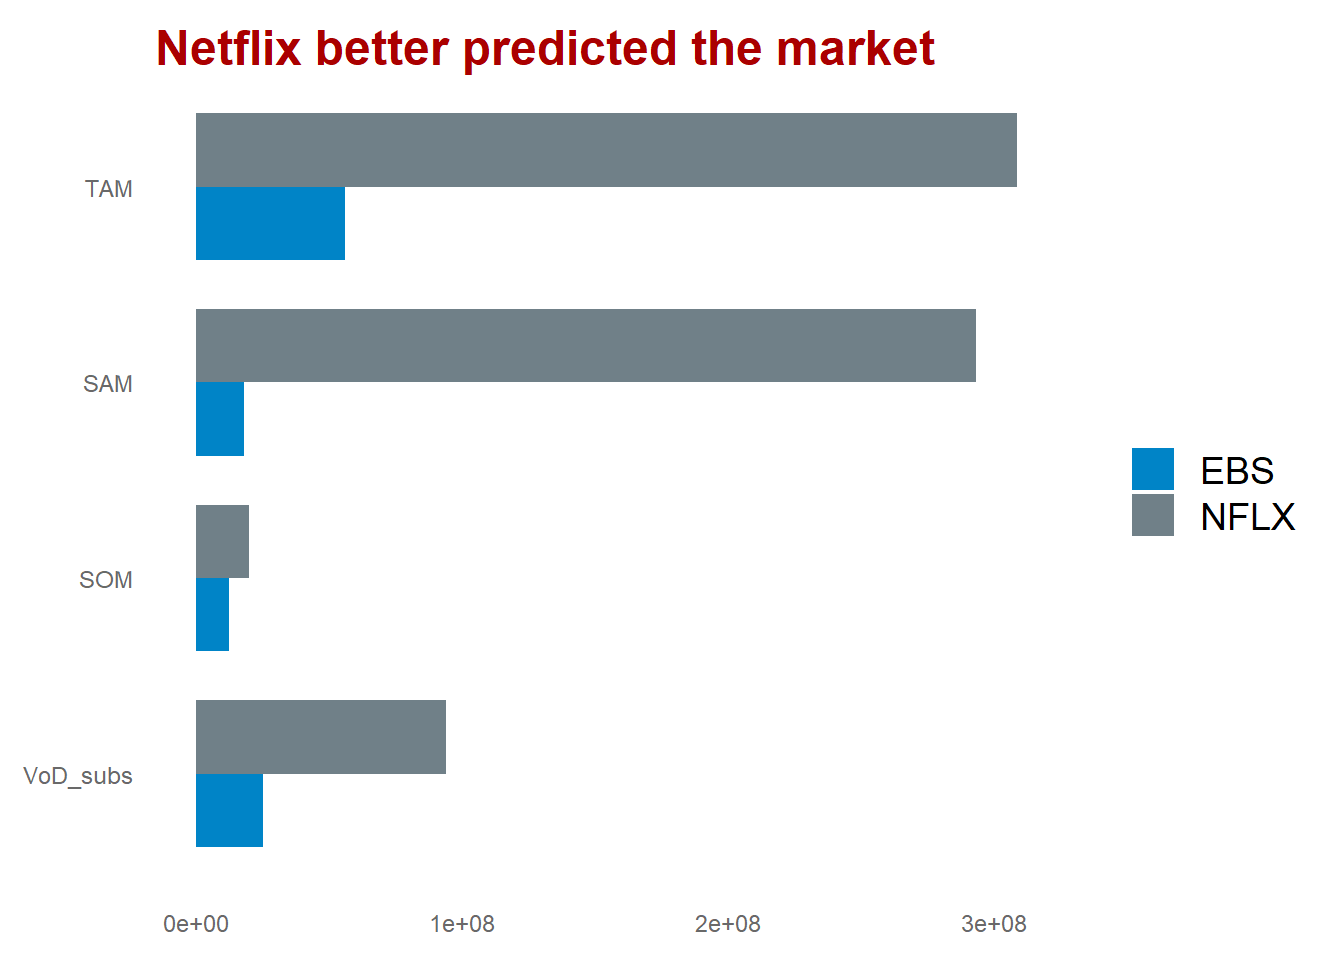
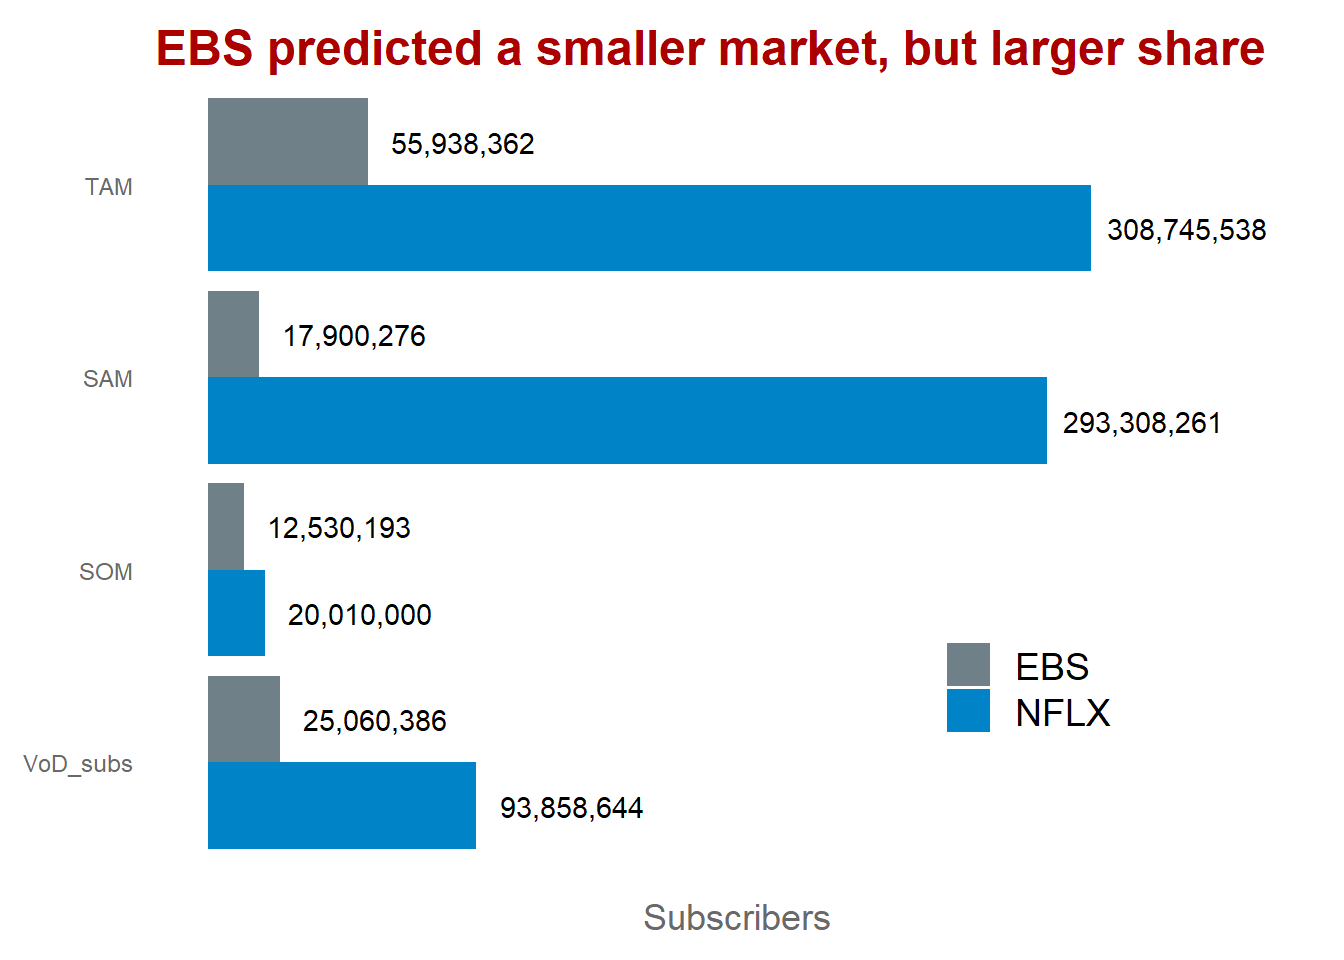
final draft of enron post

diff --git a/content/posts/2019-12-17-enron-broadband.html b/content/posts/2019-12-17-enron-broadband.html
@@ -20,7 +20,7 @@ draft: yes
 
 </div>
 <p>I read <a href="https://www.amazon.com/Smartest-Guys-Room-Amazing-Scandalous/dp/1591840538">The Smartest Guys in the Room</a> by <a href="https://en.wikipedia.org/wiki/Bethany_McLean">Bethany McLean</a> and <a href="https://www.propublica.org/people/peter-elkind">Peter Elkind</a> over the past week. As a prospective Kellogg finance major, I figured it was the least I could do to learn about this infamous company, and what went wrong.</p>
-<p>This was a fascinating read, covering in great detail the accounting and corporate finance methods that Enron used to essentially borrow from it’s own future. Enron started as a natural gas pipeline company, but in the course of mad expansion into new markets found itself <strong>in 1998</strong> pitching a new business called <strong>“Enron Broadband Services (EBS)”</strong> which would bring streaming video to the average American’s living-room TV set.</p>
+<p>This was a fascinating read, covering in great detail the accounting and corporate finance methods that Enron used to essentially borrow from it’s own future. Enron started as a natural gas pipeline company, but in the course of mad expansion into new markets found itself <strong>in 1998</strong> pitching a new business called <strong>Enron Broadband Services</strong> (EBS) which would bring streaming video to the average American’s living-room TV set.</p>
 <p>EBS was in motion a full <strong>9 years</strong> before <a href="https://en.wikipedia.org/wiki/Timeline_of_Netflix">Netflix announced</a> it would launch a streaming video service!</p>
 <p>Volumes could be written on <a href="https://www.quora.com/Why-did-Enrons-bandwidth-trading-business-fail/answer/Stan-Hanks?share=1&amp;srid=XFje">why EBS failed</a>. I will not do so here. I just want to address the expectations that Enron executives had for EBS and compare that to Netflix. On page 295 of TSGITR, the authors note the following:</p>
 <blockquote>
@@ -34,14 +34,17 @@ draft: yes
 </div>
 <div id="market-projections" class="section level3">
 <h3>Market projections</h3>
-<p><img src="/posts/2019-12-17-enron-broadband_files/figure-html/availability-1.png" width="672" /></p>
-<p>Enron estimated that in the 82 cities in which EBS would be available, 32% of households would be using DSL. In reality, in 2010 Netflix was available across the country, and DSL penetration was about 95%. Let’s compare the number of Americans that Enron expected to reach with the reality of Netflix in 2010:<a href="#fn1" class="footnoteRef" id="fnref1"><sup>1</sup></a></p>
-<p>The U.S. population in 2010 was 308,745,538, so Netflix</p>
-<p><a href="https://www.geek.com/gadgets/netflix-gains-7-7m-subscribers-in-2010-thanks-to-streaming-only-plan-1354915/" class="uri">https://www.geek.com/gadgets/netflix-gains-7-7m-subscribers-in-2010-thanks-to-streaming-only-plan-1354915/</a> <a href="https://techcrunch.com/2010/07/21/netflix-users/" class="uri">https://techcrunch.com/2010/07/21/netflix-users/</a> <a href="https://www.pewresearch.org/internet/2010/06/03/the-state-of-online-video/" class="uri">https://www.pewresearch.org/internet/2010/06/03/the-state-of-online-video/</a></p>
+<p>Enron estimated that in the 82 cities in which EBS would be available, 32% of households would be using DSL. In reality, in 2010 Netflix was available across the country (population of 308,745,538), and DSL penetration was about 95%. Let’s compare the number of Americans that Enron expected to reach with the reality of Netflix in 2010:<a href="#fn1" class="footnoteRef" id="fnref1"><sup>1</sup></a> <a href="#fn2" class="footnoteRef" id="fnref2"><sup>2</sup></a> <a href="#fn3" class="footnoteRef" id="fnref3"><sup>3</sup></a> <a href="#fn4" class="footnoteRef" id="fnref4"><sup>4</sup></a></p>
+<p><img src="/posts/2019-12-17-enron-broadband_files/figure-html/unnamed-chunk-1-1.png" width="672" /></p>
+<p>In 2010, Netflix had just over 20M streaming subscribers. EBS expected to have 12.5M streaming subscribers by then. While these numbers are relatively similar, EBS expected to have 12.5M subscribers out of a total 17.9M Americans with DSL - <strong>70%</strong> of the serviceable market! Netflix, on the other hand, achieved a much lower penetration, holding 20M out of a total of 293M Americans with DSL - only <strong>6.8%</strong> of the serviceable market.</p>
+<p>Ultimately, EBS was doomed from the beginning as it relied upon the wrong business model. If, however, EBS somehow got around that obstacle, it is likely that it would have had much lower penetration. If the penetration of EBS resembled that of what Netflix achieved in reality, then EBS would have had only around <strong>1.2M</strong> subscribers - nowhere near what they needed to make their quarterly numbers and satisfy Wall Street’s insatiable demand for earnings growth.</p>
 </div>
 <div class="footnotes">
 <hr />
 <ol>
 <li id="fn1"><p><a href="https://github.com/cestastanford/historical-us-city-populations" class="uri">https://github.com/cestastanford/historical-us-city-populations</a>. U.S. Census Bureau and Erik Steiner, Spatial History Project, Center for Spatial and Textual Analysis, Stanford University<a href="#fnref1">↩</a></p></li>
+<li id="fn2"><p><a href="https://www.geek.com/gadgets/netflix-gains-7-7m-subscribers-in-2010-thanks-to-streaming-only-plan-1354915/" class="uri">https://www.geek.com/gadgets/netflix-gains-7-7m-subscribers-in-2010-thanks-to-streaming-only-plan-1354915/</a><a href="#fnref2">↩</a></p></li>
+<li id="fn3"><p><a href="https://techcrunch.com/2010/07/21/netflix-users/" class="uri">https://techcrunch.com/2010/07/21/netflix-users/</a><a href="#fnref3">↩</a></p></li>
+<li id="fn4"><p><a href="https://www.pewresearch.org/internet/2010/06/03/the-state-of-online-video/" class="uri">https://www.pewresearch.org/internet/2010/06/03/the-state-of-online-video/</a><a href="#fnref4">↩</a></p></li>
 </ol>
 </div>
